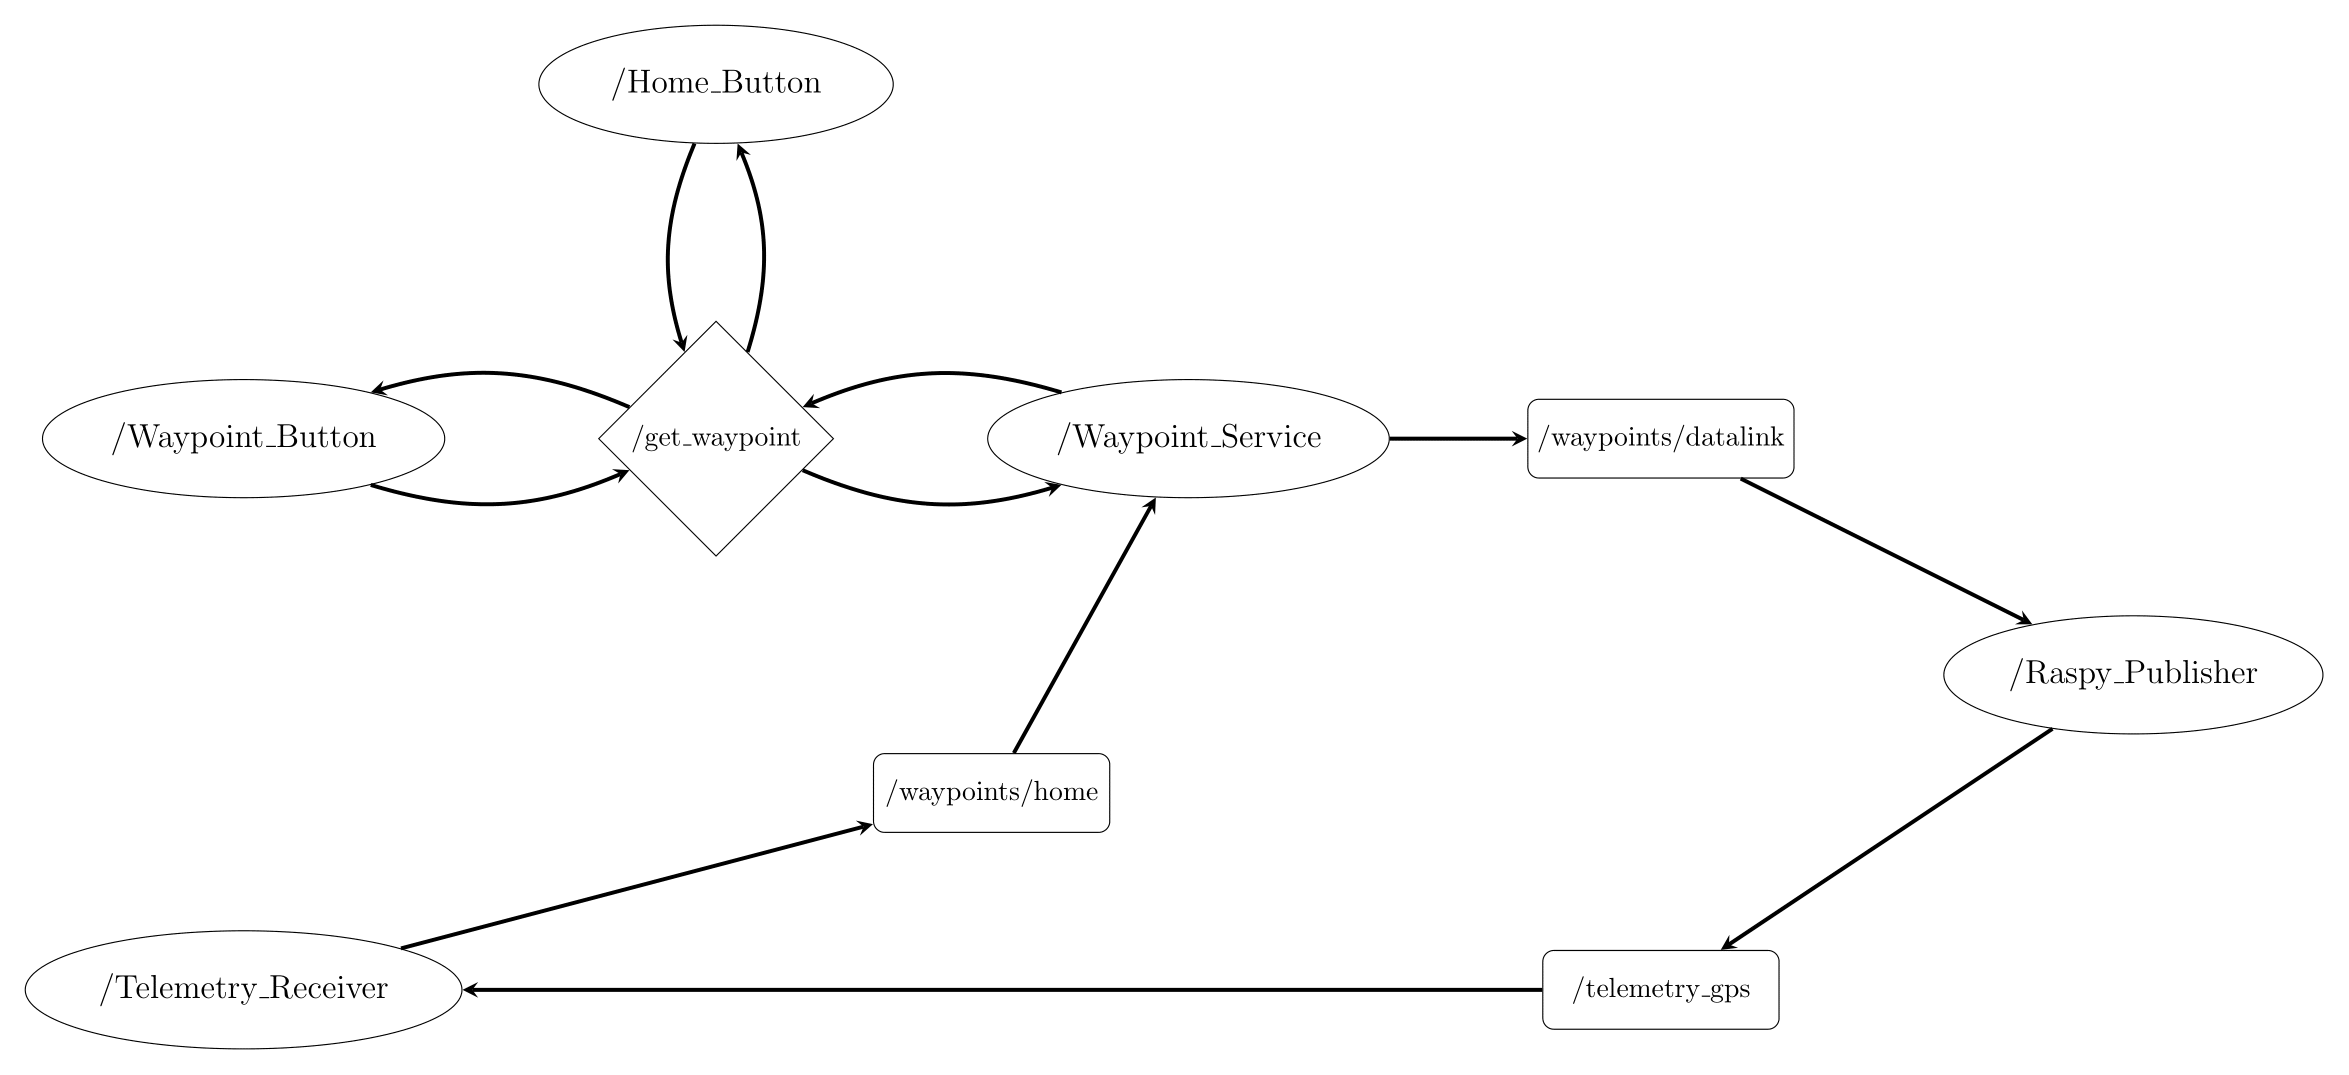
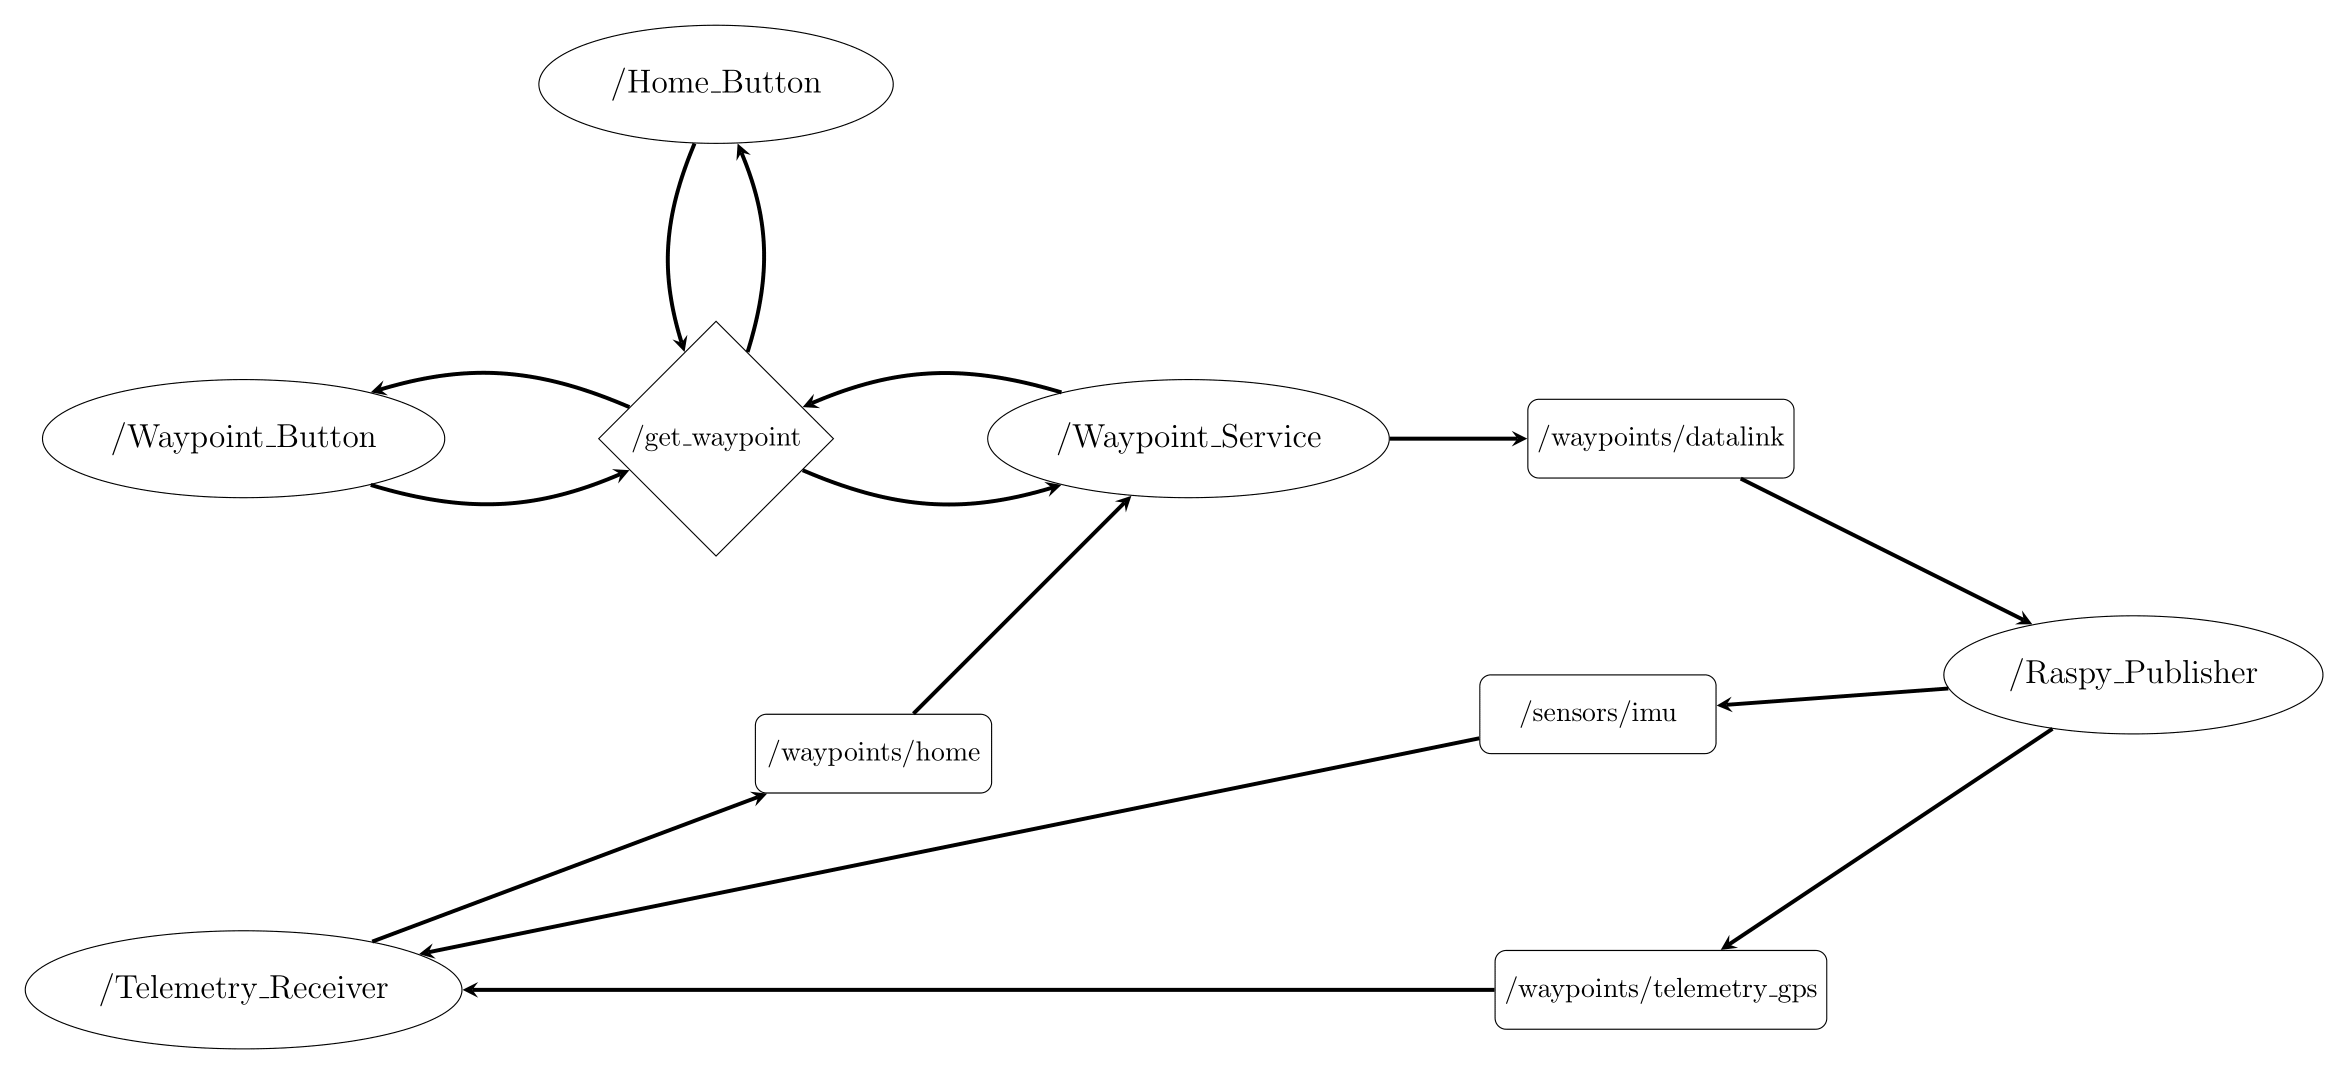
Update README

diff --git a/ros_paparazzi_core/ros_paparazzi_core/nodes/telemetry_receiver.py b/ros_paparazzi_core/ros_paparazzi_core/nodes/telemetry_receiver.py
@@ -10,7 +10,7 @@ from ros_paparazzi_core.data import gcs_data
 class Telemetry_Receiver(Node):
     def __init__(self):
         super().__init__('Telemetry_Receiver')
-        self.subscription = self.create_subscription(Waypoint, 'telemetry_gps', self.telemetry_callback, 10)  #TODO: Change the name of this 
+        self.subscription = self.create_subscription(Waypoint, 'waypoints/telemetry_gps', self.telemetry_callback, 10)  #TODO: Change the name of this 
         self.IMU_subscription = self.create_subscription(Vector3, 'sensors/imu', self.imu_callback, 10)
         self.publisher = self.create_publisher(NavSatFix, 'waypoints/home', 10)
 

diff --git a/README.md b/README.md
@@ -27,32 +27,24 @@ git clone {REPOSITORY}
 For an easy install, a `./install.sh` is included (you can also use colcon to build the package).
 
 
-## Running the Nodes (OUTDATED)
+## Running the Nodes
 
 At the moment there are four nodes:
-- **raspy_publisher**: Manage the serial communication with the AP
-- **waypoint_servicer**: Send the waypoint to the raspberry
-- **telemetry**: Receive the telemetry GPS info
-- **data_provider**: Provide the data from the txt (temporal)
+- **Raspy_Publisher**: Manage the serial communication with the AP
+- **Waypoint_Service**: Send the waypoint to the raspberry
+- **Telemetry_Receiver**: Receive the telemetry info (currently position and IMU)
+- **X_Button**: Multiple Nodes to respond to the buttons of the UI
 
 ![Nodes Diagram](rosgraph3.png)
 
-<!-- At the moment there are two nodes that can be runned. -->
-
-<!-- ![Nodes Diagram](rosgraph.png)
-
-
-For lauching the node in the Raspberry, run (inside a docker):
-
+In your computer, launch the UI with
 ```
-ros2 run ros_paparazzi_core raspy
+ros2 run ros_paparazzi_core bokeh_serve
 ```
 
-And in your computer, run:
+For launching the node in the raspberry, a script `launch_ros_node.sh` is provided.
 
-```
-ros2 run ros_paparazzi_core computer -->
-
+<!--  
 Launch files are provided to make running the nodes easier.
 Use `main_launch.py` for launching the nodes that will run indefinitely
 
@@ -64,14 +56,18 @@ Use `send_launch.py` to send a waypoint to the autopilot
 
 ```
 ros2 launch ros_paparazzi_core send_launch.py
-```
+``` -->
 
-For launching the node in the raspberry, a script `launch_ros_node.sh` is provided.
-
-If you have everything connected, you should see the waypoint defined in the `data_LTP.txt` move
+<!-- TODO: Add the ROS argument instructions -->
 
 
-TODO: Add the ROS argument instructions
+## The UI
+
+Currently, there are two working buttons
+- The Send Waypoint button will send the waypoint coordinates indicated above itself.
+- The Request HOME will reset the coordinates origin
+- The Connect Raspberry will launch the node in the Raspberry (not working)
+
 
 
 
